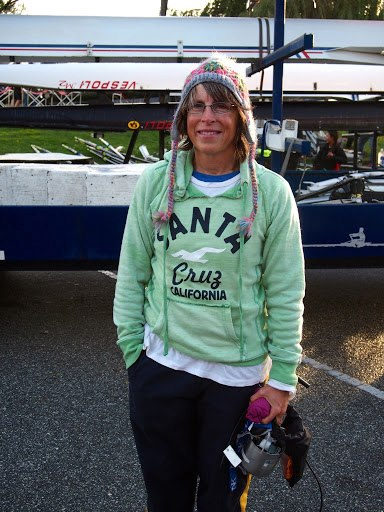
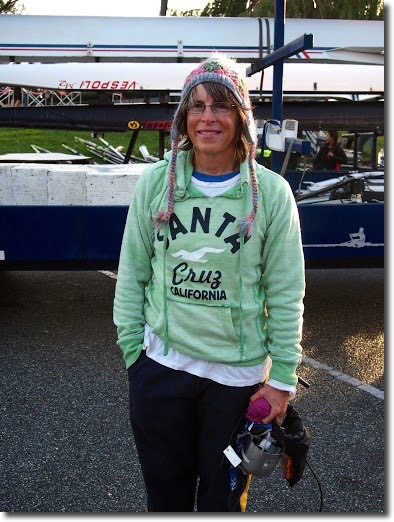
added shadow to image

diff --git a/_pages/portfolio-rowing.md b/_pages/portfolio-rowing.md
@@ -4,7 +4,7 @@ description: rowing, swimming, coaching
 featured_image: /images/demo/demo-landscape.jpg
 ---
 
-<img align="right" padding="5px" style="border:2px solid yellow" src="images/me-coxswain.jpg">
+<img align="right" padding="5px" src="images/me-coxswain.jpg">
 
 ### Rowing
 
